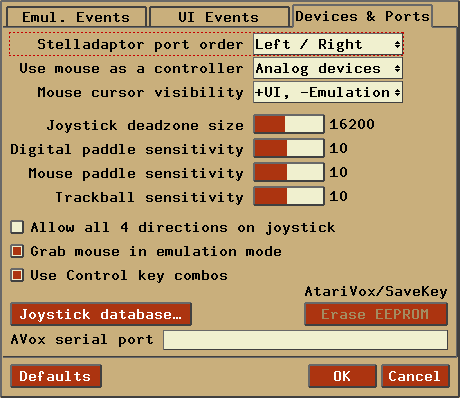
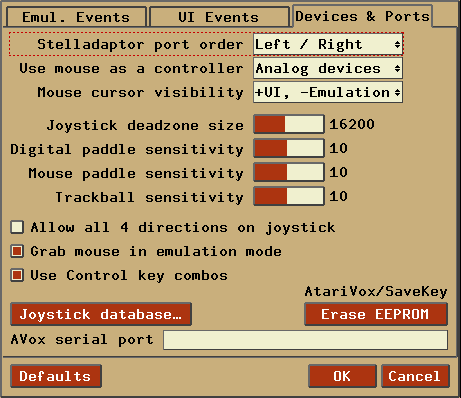
more doc updates

diff --git a/docs/index.html b/docs/index.html
@@ -2496,21 +2496,21 @@
       <td valign="top">
         <table border="1" cellpadding="4">
           <tr><th>Item</th><th>Brief description</th><th>For more information,<br>see <a href="#CommandLine">CommandLine</a></th></tr>
-          <tr><td>Renderer</td><td>use specified rendering mode</td><td>-video</td></tr>
-          <tr><td>TIA Zoom</td><td>(integral) zoom level for emulation mode </td><td>-tia.zoom</td></tr>
-          <tr><td>TIA Palette</td><td>palette for emulation mode</td><td>-palette</td></tr>
-          <tr><td>TIA Inter</td><td>interpolation for TIA image</td><td>-tia.inter</td></tr>
-          <tr><td>Timing (*)</td><td>how to wait between frames (requires restart)</td><td>-timing</td></tr>
+          <tr><td>Renderer</td><td>Use specified rendering mode</td><td>-video</td></tr>
+          <tr><td>TIA Zoom</td><td>(Integral) zoom level for emulation mode </td><td>-tia.zoom</td></tr>
+          <tr><td>TIA Palette</td><td>Palette for emulation mode</td><td>-palette</td></tr>
+          <tr><td>TIA Inter</td><td>Interpolation for TIA image</td><td>-tia.inter</td></tr>
+          <tr><td>Timing (*)</td><td>How to wait between frames (requires restart)</td><td>-timing</td></tr>
           <tr><td>NTSC Aspect</td><td>Width of TIA image in NTSC mode</td><td>-tia.aspectn</td></tr>
           <tr><td>PAL Aspect</td><td>Width of TIA image in PAL mode</td><td>-tia.aspectp</td></tr>
-          <tr><td>Framerate</td><td>frames per second in emulation mode</td><td>-framerate</td></tr>
-          <tr><td>Fullscreen</td><td>self-explanatory</td><td>-fullscreen</td></tr>
-          <tr><td>Fullscreen Fill</td><td>completely fill TIA image in fullscreen</td><td>-tia.fsfill</td></tr>
-          <tr><td>VSync</td><td>enable vertical sync'ed updates</td><td>-vsync</td></tr>
-          <tr><td>Fast SC/AR BIOS</td><td>skip progress loading bars for SuperCharger ROMs</td><td>-fastscbios</td></tr>
-          <tr><td>Show UI messages</td><td>overlay UI messages onscreen</td><td>-uimessages</td></tr>
-          <tr><td>Center window</td><td>attempt to center application window</td><td>-center</td></tr>
-          <tr><td>Use multi-threading</td><td>enable multi-threaded rendering</td><td>-threads</td></tr>
+          <tr><td>Framerate</td><td>Frames per second in emulation mode</td><td>-framerate</td></tr>
+          <tr><td>Fullscreen</td><td>Self-explanatory</td><td>-fullscreen</td></tr>
+          <tr><td>Fullscreen Fill</td><td>Completely fill TIA image in fullscreen</td><td>-tia.fsfill</td></tr>
+          <tr><td>VSync</td><td>Enable vertical sync'ed updates</td><td>-vsync</td></tr>
+          <tr><td>Fast SC/AR BIOS</td><td>Skip progress loading bars for SuperCharger ROMs</td><td>-fastscbios</td></tr>
+          <tr><td>Show UI messages</td><td>Overlay UI messages onscreen</td><td>-uimessages</td></tr>
+          <tr><td>Center window</td><td>Attempt to center application window</td><td>-center</td></tr>
+          <tr><td>Use multi-threading</td><td>Enable multi-threaded rendering</td><td>-threads</td></tr>
         </table>
       </td>
     </tr>
@@ -2525,35 +2525,18 @@
       <td valign="top">
         <table border="1" cellpadding="4">
           <tr><th>Item</th><th>Brief description</th><th>For more information,<br>see <a href="#CommandLine">CommandLine</a></th></tr>
-          <tr><td>TV Mode</td><td>disable TV effects, or select TV preset</td><td>-tv.filter</td></tr>
-          <tr><td>TV Phosphor</td><td>enable phosphor mode under what conditions</td><td>-tv.phosphor</td></tr>
-          <tr><td>Phosphor (Default)</td><td>default blend level to use in phosphor mode<br/>
+          <tr><td>TV Mode</td><td>Disable TV effects, or select TV preset</td><td>-tv.filter</td></tr>
+          <tr><td>TV Phosphor</td><td>Enable phosphor mode under what conditions</td><td>-tv.phosphor</td></tr>
+          <tr><td>Phosphor (Default)</td><td>Default blend level to use in phosphor mode<br/>
                 (needs to be manually set for your particular hardware)</td><td>-tv.phosblend</td></tr>
-          <tr><td>Scanline Intensity</td><td>sets scanline black-level intensity</td><td>-tv.scanlines</td></tr>
-          <tr><td>Scanline Interpolation</td><td>smooth/blend scanlines into image</td><td>-tv.scaninter</td></tr>
-          <tr><td>Adjustable sliders</td><td>set specific attribute in 'Custom' mode</td><td>-tv.contrast, tv.hue, etc.</td></tr>
-          <tr><td>Clone Composite</td><td>copy 'Composite' attributes to 'Custom' sliders</td><td>&nbsp;</td></tr>
-          <tr><td>Clone S-Video</td><td>copy 'S-Video' attributes to 'Custom' sliders</td><td>&nbsp;</td></tr>
-          <tr><td>Clone RGB</td><td>copy 'RGB' attributes to 'Custom' sliders</td><td>&nbsp;</td></tr>
-          <tr><td>Clone Bad Adjust</td><td>copy 'Bad Adjust' attributes to 'Custom' sliders</td><td>&nbsp;</td></tr>
-          <tr><td>Revert</td><td>revert attribute sliders to saved 'Custom' settings</td><td>&nbsp;</td></tr>
-        </table>
-      </td>
-    </tr>
-  </table>
-  <br>
-
-  <p><b>Video Settings</b> dialog (Debug Colors):</p>
-  <table border="5" cellpadding="2" frame="box" rules="none">
-    <tr>
-      <td><img src="graphics/options_video_dbgcolors.png"></td>
-      <td>&nbsp;&nbsp;&nbsp;&nbsp;</td>
-      <td valign="top">
-        <table border="1" cellpadding="4">
-          <tr><th>Item</th><th>Brief description</th><th>For more information,<br>see <a href="#CommandLine">CommandLine</a></th></tr>
-          <tr><td>Player 0 <br/>Missile 0 <br/>Player 1 <br/>
-            Missile 1 <br/>Playfield <br/>Ball </td>
-          <td>Set color for specific object in debug colors mode</td><td>-tia.dbgcolors</td></tr>
+          <tr><td>Scanline Intensity</td><td>Sets scanline black-level intensity</td><td>-tv.scanlines</td></tr>
+          <tr><td>Scanline Interpolation</td><td>Smooth/blend scanlines into image</td><td>-tv.scaninter</td></tr>
+          <tr><td>Adjustable sliders</td><td>Set specific attribute in 'Custom' mode</td><td>-tv.contrast, tv.hue, etc.</td></tr>
+          <tr><td>Clone Composite</td><td>Copy 'Composite' attributes to 'Custom' sliders</td><td>&nbsp;</td></tr>
+          <tr><td>Clone S-Video</td><td>Copy 'S-Video' attributes to 'Custom' sliders</td><td>&nbsp;</td></tr>
+          <tr><td>Clone RGB</td><td>Copy 'RGB' attributes to 'Custom' sliders</td><td>&nbsp;</td></tr>
+          <tr><td>Clone Bad Adjust</td><td>Copy 'Bad Adjust' attributes to 'Custom' sliders</td><td>&nbsp;</td></tr>
+          <tr><td>Revert</td><td>Revert attribute sliders to saved 'Custom' settings</td><td>&nbsp;</td></tr>
         </table>
       </td>
     </tr>
@@ -2568,10 +2551,10 @@
       <td valign="top">
         <table border="1" cellpadding="4">
           <tr><th>Item</th><th>Brief description</th><th>For more information,<br>see <a href="#CommandLine">CommandLine</a></th></tr>
-          <tr><td>Volume</td><td>self-explanatory</td><td>-volume</td></tr>
-          <tr><td>Sample size (*)</td><td>set size of audio buffers</td><td>-fragsize</td></tr>
-          <tr><td>Frequency (*)</td><td>change sound output frequency</td><td>-freq</td></tr>
-          <tr><td>Enable sound</td><td>self-explanatory</td><td>-sound</td></tr>
+          <tr><td>Volume</td><td>Self-explanatory</td><td>-volume</td></tr>
+          <tr><td>Sample size (*)</td><td>Set size of audio buffers</td><td>-fragsize</td></tr>
+          <tr><td>Frequency (*)</td><td>Change sound output frequency</td><td>-freq</td></tr>
+          <tr><td>Enable sound</td><td>Self-explanatory</td><td>-sound</td></tr>
         </table>
       </td>
     </tr>
@@ -2604,9 +2587,9 @@
       <td valign="top">
         <table border="1" cellpadding="4">
           <tr><th>Item</th><th>Brief description</th><th>For more information,<br>see <a href="#CommandLine">CommandLine</a></th></tr>
-          <tr><td>Interface Palette</td><td>palette to use for UI elements</td><td>-uipalette</td></tr>
-          <tr><td>List quick delay</td><td>time to wait between keypresses in listwidget</td><td>-listdelay</td></tr>
-          <tr><td>Mouse wheel scroll</td><td>number of lines mouse scroll will move in listwidget</td><td>-mscroll</td></tr>
+          <tr><td>Interface Palette</td><td>Palette to use for UI elements</td><td>-uipalette</td></tr>
+          <tr><td>List quick delay</td><td>Time to wait between keypresses in list-widgets</td><td>-listdelay</td></tr>
+          <tr><td>Mouse wheel scroll</td><td>Number of lines mouse scroll will move in list-widgets</td><td>-mscroll</td></tr>
         </table>
       </td>
     </tr>
@@ -2621,12 +2604,12 @@
       <td valign="top">
         <table border="1" cellpadding="4">
           <tr><th>Item</th><th>Brief description</th><th>For more information,<br>see <a href="#CommandLine">CommandLine</a></th></tr>
-          <tr><td>Save path</td><td>specifies where to save snapshots</td><td>-snapsavedir</td></tr>
-          <tr><td>Load path</td><td>specifies where to load snapshots</td><td>-snaploaddir</td></tr>
-          <tr><td>Save snapshots according to</td><td>specifies how to name saved snapshots</td><td>-snapname</td></tr>
-          <tr><td>Continuous snapshot interval</td><td>interval (in seconds) between snapshot</td><td>-ssinterval</td></tr>
-          <tr><td>Overwrite existing files</td><td>whether to overwrite old snapshots</td><td>-sssingle</td></tr>
-          <tr><td>Ignore scaling (1x mode)</td><td>save snapshot in 1x mode, without scaling</td><td>-ss1x</td></tr>
+          <tr><td>Save path</td><td>Specifies where to save snapshots</td><td>-snapsavedir</td></tr>
+          <tr><td>Load path</td><td>Specifies where to load snapshots</td><td>-snaploaddir</td></tr>
+          <tr><td>Save snapshots according to</td><td>Specifies how to name saved snapshots</td><td>-snapname</td></tr>
+          <tr><td>Continuous snapshot interval</td><td>Interval (in seconds) between snapshots</td><td>-ssinterval</td></tr>
+          <tr><td>Overwrite existing files</td><td>Whether to overwrite old snapshots</td><td>-sssingle</td></tr>
+          <tr><td>Ignore scaling (1x mode)</td><td>Save snapshot in 1x mode, without scaling</td><td>-ss1x</td></tr>
         </table>
       </td>
     </tr>
@@ -2641,12 +2624,12 @@
       <td valign="top">
         <table border="1" cellpadding="4">
           <tr><th>Item</th><th>Brief description</th><th>For more information,<br>see <a href="#CommandLine">CommandLine</a></th></tr>
-          <tr><td>Rom path</td><td>specifies location of ROM files</td><td>-romdir</td></tr>
-          <tr><td>Cheat file</td><td>specifies location of cheatfile database</td><td>-cheatfile</td></tr>
-          <tr><td>Palette file</td><td>specifies location of user palette</td><td>-palettefile</td></tr>
-          <tr><td>Properties file </td><td>specifies location of external stella.pro database</td><td>-propsfile</td></tr>
-          <tr><td>State path</td><td>specifies location of state files</td><td>-statedir</td></tr>
-          <tr><td>NVRAM path</td><td>specifies location of NVRAM (flash/EEPROM) files</td><td>-nvramdir</td></tr>
+          <tr><td>Rom path</td><td>Specifies location of ROM files</td><td>-romdir</td></tr>
+          <tr><td>Cheat file</td><td>Specifies location of cheatfile database</td><td>-cheatfile</td></tr>
+          <tr><td>Palette file</td><td>Specifies location of user palette</td><td>-palettefile</td></tr>
+          <tr><td>Properties file </td><td>Specifies location of external stella.pro database</td><td>-propsfile</td></tr>
+          <tr><td>State path</td><td>Specifies location of state files</td><td>-statedir</td></tr>
+          <tr><td>NVRAM path</td><td>Specifies location of NVRAM (flash/EEPROM) files</td><td>-nvramdir</td></tr>
         </table>
       </td>
     </tr>
@@ -2742,15 +2725,16 @@
           <tr><td>Stelladaptor port order</td><td>Specifies which virtual port each Stelladaptor/2600-daptor uses (See <b>Advanced Configuration - <a href="#Adaptor">Stelladaptor/2600-daptor Support</a></b>)</td><td>-saport</td></tr>
           <tr><td>Use mouse as ...</td><td>Allow the mouse to emulate various controllers</td><td>-usemouse</td></tr>
           <tr><td>Mouse cursor visibility</td><td>Show/hide cursor depending on current state</td><td>-cursor</td></tr>
-          <tr><td>AVox serial port</td><td>Described in further detail in <b>Advanced Configuration - <a href="#AtariVox">AtariVox/SaveKey Support</a></b> </td><td>-avoxport</td></tr>
-          <tr><td>Joy deadzone size</td><td>Deadzone area for axes on joysticks/gamepads</td><td>-joydeadzone</td></tr>
+          <tr><td>Joystick deadzone size</td><td>Deadzone area for axes on joysticks/gamepads</td><td>-joydeadzone</td></tr>
           <tr><td>Digital paddle sensitivity</td><td>Sensitivity used when emulating a paddle using a digital device</td><td>-dsense</td></tr>
           <tr><td>Mouse paddle sensitivity</td><td>Sensitivity used when emulating a paddle using a mouse</td><td>-msense</td></tr>
           <tr><td>Trackball sensitivity</td><td>Sensitivity used when emulating a trackball device using a mouse</td><td>-tsense</td></tr>
-          <tr><td>Allow all 4 ...</td><td>Allow all 4 joystick directions to be pressed simultaneously</td><td>-joyallow4</td></tr>
-          <tr><td>Grab mouse ...</td><td>Keep mouse in window in emulation mode</td><td>-grabmouse</td></tr>
+          <tr><td>Allow all 4 directions ...</td><td>Allow all 4 joystick directions to be pressed simultaneously</td><td>-joyallow4</td></tr>
+          <tr><td>Grab mouse ...</td><td>Keep mouse in window in emulation mode<br/>(only when used as controller)</td><td>-grabmouse</td></tr>
           <tr><td>Use Control key combos</td><td>Enable using Control key in keyboard actions</td><td>-ctrlcombo</td></tr>
-          <tr><td>Show Joystick Database</td><td>Show all joysticks that Stella knows about, with the option to remove them</td><td>&nbsp;</td></tr>
+          <tr><td>Joystick Database</td><td>Show all joysticks that Stella knows about, with the option to remove them</td><td>&nbsp;</td></tr>
+          <tr><td>Erase EEPROM</td><td>Erase the whole AtariVox/SaveKey flash memory</td><td>&nbsp;</td></tr>
+          <tr><td>AVox serial port</td><td>Described in further detail in <b>Advanced Configuration - <a href="#AtariVox">AtariVox/SaveKey Support</a></b> </td><td>-avoxport</td></tr>
         </table>
       </td>
     </tr>
@@ -2832,8 +2816,8 @@
           <tr><td>Right Difficulty</td><td>-rd</td></tr>
           <tr><td>TV Type</td><td>-tv</td></tr>
           <tr><td>Startup Mode</td><td>-debug</td></tr>
-          <tr><td>Left joy items</td><td>-holdjoy0</td></tr>
-          <tr><td>Right joy items</td><td>-holdjoy1</td></tr>
+          <tr><td>Left Joy items</td><td>-holdjoy0</td></tr>
+          <tr><td>Right Joy items</td><td>-holdjoy1</td></tr>
           <tr><td>Console: Select</td><td>-holdselect</td></tr>
           <tr><td>Console: Reset</td><td>-holdreset</td></tr>
         </table>
@@ -3003,7 +2987,7 @@
   <p><b>Developer Settings</b> dialog (Emulator)</p>
   <table border="5" cellpadding="2" frame="box" rules="none">
     <tr>
-      <td><img src="graphics/options_developer.png"></td>
+      <td><img src="graphics/options_developer_emulation.png"></td>
       <td>&nbsp;&nbsp;&nbsp;&nbsp;</td>
       <td valign="top">
         <table border="1" cellpadding="4">
@@ -3012,13 +2996,13 @@
           <tr><td>Frame Statistics</td><td>Overlay console info on the TIA image during emulation.</td><td>-plr.stats<br/>-dev.stats</td></tr>
           <tr><td>Console</td><td>Select the console type, this affects Color/B&W/Pause key emulation and zero-page RAM initialzation</td><td>-plr.console <br/>-dev.console</td></tr>
           <tr><td>Random startup bank</td><td>Randomize the startup bank for several bankswitch types</td><td>-plr.bankrandom<br/>-dev.bankrandom</td></tr>
-          <tr><td>Randomize zero-page...</td><td>When loading a ROM, randomize all RAM content instead of initializing with all zeroes (console = 2600) or startup values (console = 7800)</td><td>-plr.ramrandom<br/>-dev.ramrandom</td></tr>
+          <tr><td>Randomize zero-page ...</td><td>When loading a ROM, randomize all RAM content instead of initializing with all zeroes (for 'Console' = 'Atari 2600' only)</td><td>-plr.ramrandom<br/>-dev.ramrandom</td></tr>
           <tr><td>Randomize CPU</td><td>When loading a ROM, randomize the content of the specified CPU registers</td><td>-plr.cpurandom<br/>-dev.cpurandom</td></tr>
           <tr><td>PAL color-loss</td><td>Use PAL color-loss effect</td><td>-plr.colorloss<br/>-dev.colorloss</td></tr>
           <tr><td>Debug colors</td><td>Use fixed debug colors</td><td>-plr.debugcolors<br/>-dev.debugcolors</td></tr>
           <tr><td>Jitter/roll effect</td><td>Emulate screen roll with inconsistent scanline count</td><td>-plr.tv.jitter<br/>-dev.tv.jitter</td></tr>
           <tr><td>Jitter/roll recovery</td><td>Determines recovery time for screen rolling</td><td>-plr.tv.jitter_recovery<br/>-dev.tv.jitter_recovery</td></tr>
-          <tr><td>Drive unused TIA pins...</td><td>Unused TIA pins are read random instead of the last databus value</td><td>-plr.tiadriven<br/>-dev.tiadriven</td></tr>
+          <tr><td>Drive unused TIA pins ...</td><td>Unused TIA pins are read random instead of the last databus values</td><td>-plr.tiadriven<br/>-dev.tiadriven</td></tr>
         </table>
       </td>
     </tr>
@@ -3042,17 +3026,35 @@
     </tr>
   </table>
 
-  <p><b>Developer Settings</b> dialog (Debugger)</p>
+  <p><b>Developer Settings</b> dialog (Debug Colors):</p>
   <table border="5" cellpadding="2" frame="box" rules="none">
     <tr>
-      <td><img src="graphics/options_debugger.png"></td>
+      <td><img src="graphics/options_developer_dbgcolors.png"></td>
       <td>&nbsp;&nbsp;&nbsp;&nbsp;</td>
       <td valign="top">
         <table border="1" cellpadding="4">
           <tr><th>Item</th><th>Brief description</th><th>For more information,<br>see <a href="#CommandLine">CommandLine</a></th></tr>
-          <tr><td>Font Style</td><td>self-explanatory (requires ROM reload)</td><td>-dbg.fontstyle</td></tr>
-          <tr><td>Font Size</td><td>self-explanatory (requires ROM reload)</td><td>N/A</td></tr>
-          <tr><td>Debugger Width/Height</td><td>self-explanatory (requires ROM reload)</td><td>-dbg.res</td></tr>
+          <tr><td>Player 0 <br/>Missile 0 <br/>Player 1 <br/>
+            Missile 1 <br/>Playfield <br/>Ball </td>
+          <td>Set color for specific object in debug colors mode<br/>(disabled in ROM Launcher mode)</td><td>-tia.dbgcolors</td></tr>
+        </table>
+      </td>
+    </tr>
+  </table>
+  <br>
+
+
+  <p><b>Developer Settings</b> dialog (Debugger)</p>
+  <table border="5" cellpadding="2" frame="box" rules="none">
+    <tr>
+      <td><img src="graphics/options_developer_debugger.png"></td>
+      <td>&nbsp;&nbsp;&nbsp;&nbsp;</td>
+      <td valign="top">
+        <table border="1" cellpadding="4">
+          <tr><th>Item</th><th>Brief description</th><th>For more information,<br>see <a href="#CommandLine">CommandLine</a></th></tr>
+          <tr><td>Font style</td><td>Self-explanatory (requires ROM reload)</td><td>-dbg.fontstyle</td></tr>
+          <tr><td>Font size</td><td>Self-explanatory (requires ROM reload)</td><td>N/A</td></tr>
+          <tr><td>Debugger width/height</td><td>Self-explanatory (requires ROM reload)</td><td>-dbg.res</td></tr>
         </table>
       </td>
     </tr>
